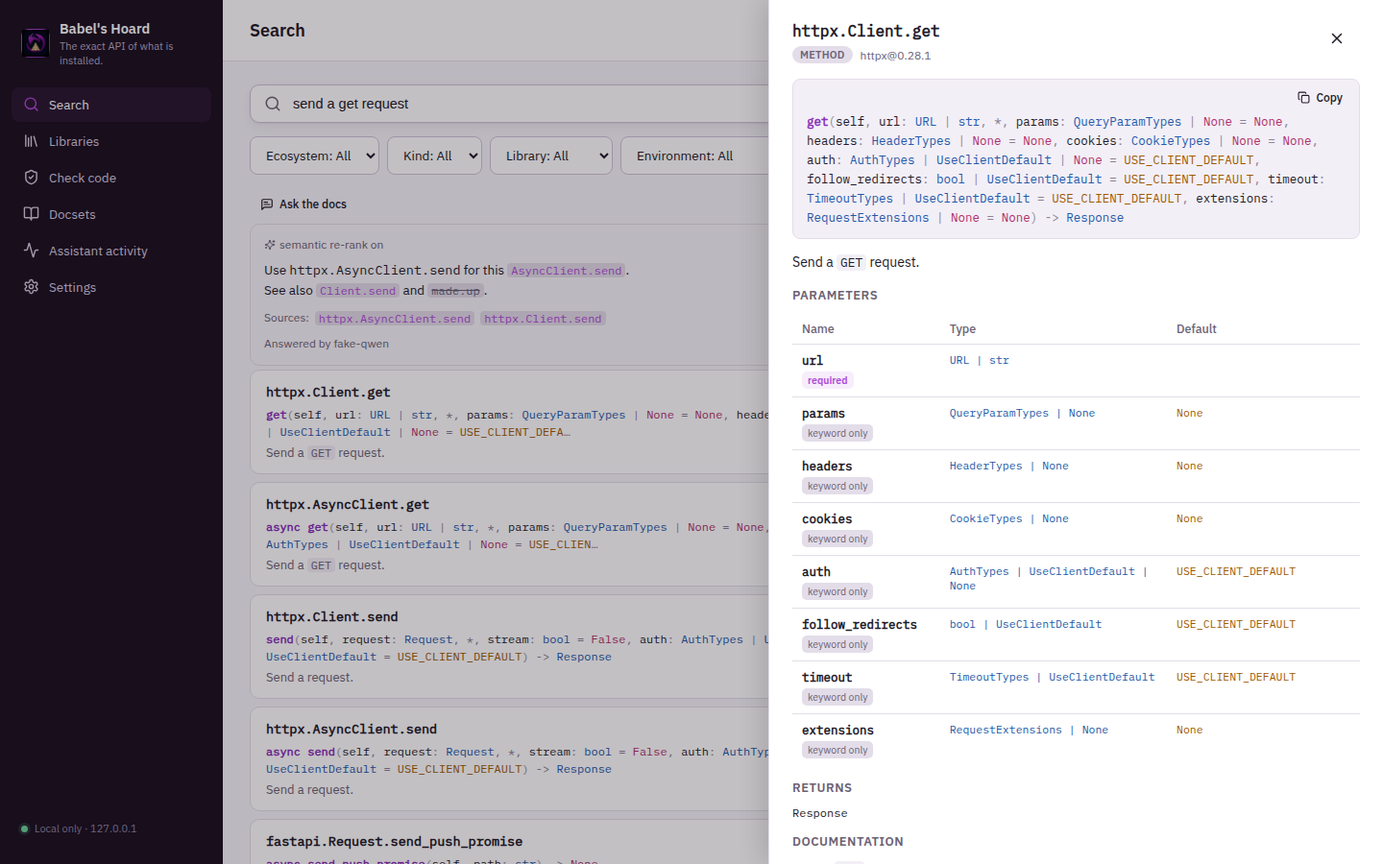
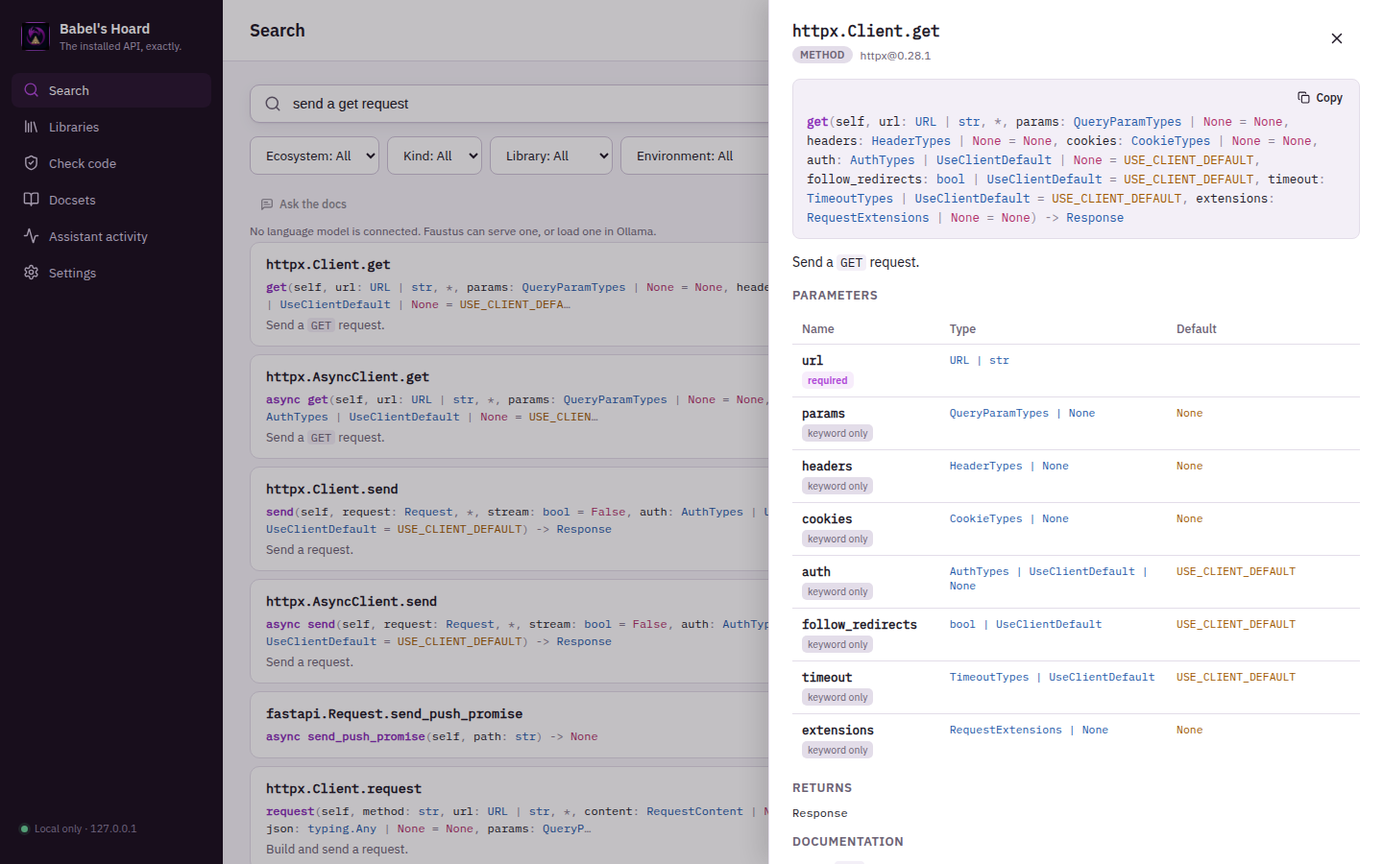
docs: add use cases to both READMEs and record the second usability pass
- README / README.es: a Use cases section linking to docs/USE_CASES.md,
  the feature table updated for this pass, 159 tests, and the new
  false-positive harness run.
- USABILITY_REPORT: second walk of every scenario (person in English and
  Spanish, agent over MCP), a verdict per use case and the status of every
  finding.
- Screenshots retaken from the demo data; the agent skill mentions
  default_for and no_python.

Claude-Session: https://claude.ai/code/session_019KVoFTp2agjwLaonbFXam5

diff --git a/README.es.md b/README.es.md
@@ -30,22 +30,50 @@ no puede demostrar se cuenta como `unchecked` (sin verificar).
 ![Comprobar código: response.jsonify() y client.post(..., retry=3) marcados contra httpx 0.28.1, con las líneas afectadas](docs/media/check-code.png)
 *Aplicación real, datos de demostración. El fragmento se analiza, nunca se ejecuta; `jsonify` se detecta gracias al tipo que devuelve `client.get` y a la variable de `with ... as client`.*
 
+## Casos de uso
+
+Cada uno se recorrió de verdad, en el navegador y por MCP, sobre un proyecto
+FastAPI + React con 228 paquetes instalados
+([casos de uso](docs/USE_CASES.md), [informe de usabilidad](docs/USABILITY_REPORT.md)):
+
+- **Registrar un proyecto grande**: pegas su carpeta y en menos de un
+  segundo se detectan el `.venv` y `frontend/node_modules`, se listan los
+  paquetes instalados con su versión exacta y las dependencias de ejecución
+  se indexan en segundo plano con el progreso a la vista (sin las
+  herramientas de desarrollo).
+- **Consultar una firma exacta**: escribes `sqlalchemy.ext.asyncio.async_sessionmaker`
+  en Buscar y pulsas *Consultar*: los parámetros del constructor del
+  SQLAlchemy instalado, aunque la primera pasada del índice se detuviera en
+  el límite de tamaño.
+- **Comprobar el código que ha escrito un modelo**: Python
+  (`httpx.AsyncClient(retries=3)`, un `item.dict()` obsoleto en tu propio
+  modelo de pydantic) e importaciones de TypeScript (`MagicWand` de
+  `lucide-react`), cada aviso bajo su línea.
+- **«Faustus, escríbelo y demuestra que existe»**: el agente consulta
+  `httpx.AsyncClient.stream`, comprueba su endpoint, corrige los dos errores
+  con las sugerencias y obtiene una comprobación limpia en cinco llamadas.
+- **Revisar un módulo entero**: un servicio correcto de 370 líneas no da
+  ningún aviso; tres errores introducidos vuelven como errores con su línea.
+- **Buscar en tu propia documentación**: indexas la carpeta `docs/` del
+  proyecto desde Docsets y encuentras «cómo arranco el backend» junto al
+  índice de APIs.
+
 ## Qué está implementado
 
 | Área | Disponible ahora | Límite |
 | --- | --- | --- |
-| Indexado de Python | Indexado estático (griffe sobre el código fuente y los stubs `.pyi`; el código del proyecto nunca se ejecuta) de las distribuciones y los módulos de la biblioteca estándar de cualquier intérprete registrado, cuando hace falta por primera vez y en caché por entorno + paquete + versión. En anchura, para que la API pública se indexe primero; cada objeto se expande una sola vez y sus otras rutas públicas apuntan a él; se resuelven clases base y reexportaciones de otros paquetes; se registra qué módulos y clases se conocen por completo (espacios de nombres dinámicos, límites, módulos compilados) | Límites por paquete: 15.000 entradas, 1.500 módulos analizados (sin las baterías de tests), 600 módulos de otros paquetes; una librería que los supera queda como `partial` y sus espacios de nombres incompletos nunca generan errores. Las extensiones compiladas sin stubs se registran como tales, sin miembros. No se indexan los módulos propios del proyecto que no estén instalados |
+| Indexado de Python | Indexado estático (griffe sobre el código fuente y los stubs `.pyi`; el código del proyecto nunca se ejecuta) de las distribuciones y los módulos de la biblioteca estándar de cualquier intérprete registrado, cuando hace falta por primera vez y en caché por entorno + paquete + versión. En anchura, para que la API pública se indexe primero; cada objeto se expande una sola vez y sus otras rutas públicas apuntan a él; se resuelven clases base y reexportaciones de otros paquetes; se registra qué módulos y clases se conocen por completo (espacios de nombres dinámicos, límites, módulos compilados, subpaquetes de espacio de nombres, nombres de stubs declarados solo con `@overload`); un espacio de nombres que el límite dejó sin expandir se indexa la primera vez que una consulta o comprobación llega a él; se indexan todos los nombres de importación de una distribución (pytest: `py` y `pytest`) | Límites por paquete en la primera pasada: 15.000 entradas, 1.500 módulos analizados (sin las baterías de tests), 600 módulos de otros paquetes; una librería que los supera queda como `partial` y sus espacios de nombres incompletos nunca generan errores. Las extensiones compiladas sin stubs se registran como tales, sin miembros. No se indexan los módulos propios del proyecto que no estén instalados |
 | Seguimiento de versiones | El sondeo del intérprete se reutiliza hasta que cambia su site-packages; tras una actualización, la siguiente consulta indexa la versión nueva y marca la anterior como `superseded` (solo se muestra como «otras versiones») | La detección se basa en la fecha de modificación de las carpetas de site-packages; las instalaciones editables que cambian el código sin reinstalar conservan lo indexado hasta reindexar |
-| Comprobación de código (`api_check_code`) | Módulos y atributos inexistentes, argumentos por nombre inesperados, parámetros solo posicionales pasados por nombre, demasiados posicionales, obligatorios que faltan y API obsoletas, con sugerencias. Sigue los valores a través de importaciones, asignaciones, anotaciones, tipos de retorno, métodos que devuelven `Self`, `with`/`async with` y `await`; distingue receptores (instancia, clase, estático, sin enlazar) y constructores; las sobrecargas se comprueban contra su contrato | Errores solo en espacios de nombres completos; las clases con `__getattr__` o `setattr(self, nombre)` y los módulos perezosos dan avisos; los tipos desconocidos, metaclases propias, `__new__`, decoradores desconocidos y el código protegido quedan sin verificar. TypeScript: solo importaciones y reexportaciones con nombre (v1) |
+| Comprobación de código (`api_check_code`) | Módulos y atributos inexistentes, argumentos por nombre inesperados, parámetros solo posicionales pasados por nombre, demasiados posicionales, obligatorios que faltan y API obsoletas, con sugerencias. Sigue los valores a través de importaciones, asignaciones, anotaciones, tipos de retorno, métodos que devuelven `Self`, `with`/`async with` (también funciones `@contextmanager` como `client.stream(...)`), `await` y clases definidas en el propio fragmento (a través de sus bases indexadas); distingue receptores (instancia, clase, estático, sin enlazar) y constructores; las sobrecargas se comprueban contra las que encajan con la llamada; `@deprecated` de PEP 702. Sin `env`, el código Python se comprueba contra el proyecto más reciente con intérprete y el TypeScript contra el más reciente con `node_modules` | Errores solo en espacios de nombres completos; las clases con `__getattr__` o `setattr(self, nombre)` y los módulos perezosos dan avisos; los tipos desconocidos, metaclases propias, `__new__`, decoradores desconocidos y el código protegido quedan sin verificar. TypeScript: solo importaciones y reexportaciones con nombre (v1) |
 | Consulta (`api_lookup`) | Firma, parámetros (tipo, valor por defecto, obligatorio, tipo de paso, descripción), tipo de retorno, resumen, los primeros 1.500 caracteres del docstring, miembros, archivo:línea y versión de la librería; `found: false` con los nombres reales más parecidos y si la ausencia es segura | Paquetes de Python y paquetes npm con declaraciones de tipos |
-| Indexado de JS/TS | API del compilador de TypeScript sobre las declaraciones del paquete (`types`/`typings`, `exports[...].types`, `index.d.ts`, `@types/<nombre>`): exportaciones, un nivel de miembros, JSDoc y `@deprecated`; se indexa al primer uso | Requiere Node.js; como máximo 500 exportaciones por paquete (después, `partial`) |
-| Búsqueda | FTS5 de SQLite con pesos bm25 (nombre, ruta, firma, resumen, documentación), tokens que entienden identificadores, filtros, un resultado por definición y sugerencias por trigramas | Léxica, sin embeddings |
+| Indexado de JS/TS | API del compilador de TypeScript sobre las declaraciones del paquete (`types`/`typings`, `exports[...].types`, `index.d.ts`, `@types/<nombre>`): exportaciones, un nivel de miembros, JSDoc y `@deprecated`; se indexa al primer uso | Requiere Node.js; tipos y documentación de las primeras 500 exportaciones de un paquete, solo nombres del resto (hasta 50.000) |
+| Búsqueda | FTS5 de SQLite con pesos bm25 (nombre, ruta, firma, resumen, documentación), tokens que entienden identificadores, filtros, un resultado por definición con su ruta más corta, reordenada para que las funciones y clases cuyo nombre coincide vayan antes que atributos y constantes, y sugerencias por trigramas; un nombre con puntos ofrece una consulta exacta que indexa el paquete en el momento | Léxica, sin embeddings; solo lo indexado |
 | Documentación sin conexión | Catálogo e instalación de DevDocs (HTML convertido a Markdown y dividido por anclas) como tarea en segundo plano | Necesita red, solo cuando lo pide el usuario o el modelo; el conversor es pequeño, no un renderizador HTML completo |
 | Carpetas de Markdown | `.md`/`.mdx`/`.rst`/`.txt` divididos por encabezado (respetando bloques de código y subrayados de rst) | Se omiten carpetas de dependencias, control de versiones y compilación; 2.000 archivos y 2 MB por archivo |
 | Auditoría del asistente | Cada llamada a `/api/agent/*` (herramienta, resumen de argumentos, duración, resultado) en «Actividad del asistente»; la interfaz usa sus propios endpoints, así que solo aparecen las llamadas del modelo | Solo local |
 | Preguntar a la documentación | Pantalla de Búsqueda: una pregunta se responde a partir de los mejores resultados de búsqueda con el modelo de `llm` compartido, con citas `[id]` que enlazan a la entrada exacta (y una lista de Fuentes; un id inventado por el modelo aparece tachado). Cuando el modelo de `embeddings` compartido resuelve, los 50 mejores resultados léxicos se reordenan de forma híbrida (fusión por rango recíproco del orden léxico y el de embeddings, distintivo «reordenación semántica activa»); si no, orden léxico | Solo responde con lo ya indexado; es una función de la interfaz, no una herramienta MCP; se desactiva mostrando el motivo cuando ningún modelo resuelve |
 | Backend de modelos compartido | Ajustes → Modelos: qué servidor/modelo se usa ahora mismo para `llm`/`embeddings` y por qué, un botón «Comprobar de nuevo», ajustes manuales (URL/token de Faustus, URL/modelo por capacidad) | Ver [Modelos compartidos](#modelos-compartidos) más abajo |
-| Interfaz | Búsqueda, panel de símbolo, Librerías (paquetes instalados con su estado de indexado), Comprobar código (números de línea, avisos bajo cada línea), Docsets, Actividad del asistente y Ajustes; tema claro/oscuro, inglés/español | Un solo usuario, navegador local |
+| Interfaz | Búsqueda, panel de símbolo, Librerías (paquetes instalados con su estado de indexado, que se rellena mientras corre la tarea de dependencias; entorno predeterminado por lenguaje), Comprobar código (números de línea, avisos bajo cada línea), Docsets (con *Indexar una carpeta*), Actividad del asistente (qué entorno respondió a cada llamada) y Ajustes; tema claro/oscuro, inglés/español | Un solo usuario, navegador local; los mensajes del backend (avisos, notas) están en inglés |
 
 ## Modelos compartidos
 
@@ -144,7 +172,7 @@ las decisiones detrás del comprobador:
 .venv\Scripts\python -m pytest -q
 ```
 
-**126 tests, entre 50 y 85 s en un contenedor compartido de 2 CPU, sin red.** Cubren: la
+**159 tests, entre 60 y 135 s en un contenedor compartido de 2 CPU, sin red.** Cubren: la
 protección frente al navegador y el confinamiento de archivos estáticos
 (intentos de salir de la carpeta), la forma de los errores, las conexiones
 por hilo y que `/api/health` responda mientras corre una herramienta larga;
@@ -165,7 +193,15 @@ valores no válidos rechazados antes de guardarse, un `backend.json` roto al
 arrancar, y «Preguntar a la
 documentación» - desactivada, pregunta vacía, sin resultados, filtrado de
 citas, reordenación híbrida y una llamada al modelo fallida - todo contra
-un Link simulado, sin red).
+un Link simulado, sin red); y un test de regresión por cada hallazgo
+corregido del [informe de usabilidad](docs/USABILITY_REPORT.md)
+(`tests/test_usability_fixes.py`: entornos predeterminados por lenguaje,
+distribuciones con varios paquetes, submódulos compilados y subpaquetes de
+espacio de nombres, stubs solo con sobrecargas, expansión bajo demanda más
+allá del límite, valores de gestores de contexto, clases del propio
+fragmento, sobrecargas que encajan, orden de la búsqueda, listas grandes de
+exportaciones JS y que ningún paquete analizado se quede en memoria tras
+indexarlo).
 
 Banco de falsos positivos: `scripts/check_corpus.py` pasa el comprobador
 por el código de paquetes instalados, que funciona, así que cualquier error
@@ -173,8 +209,12 @@ que marque es sospechoso. En 300 archivos tomados de starlette, fastapi,
 httpx, uvicorn, mcp, anyio, pydantic-settings, click, jsonschema, griffe,
 pandas y requests no marca ningún error ni aviso (en la muestra de
 pandas/requests: 4.954 comprobaciones verificadas y 11.551 sin verificar).
-Las cuatro clases de falsos positivos que encontró están corregidas y
-cubiertas por tests.
+En 110 archivos de SQLAlchemy, pydantic-settings, sse-starlette, tenacity,
+fastembed, psutil, chromadb, aiosqlite, alembic, PyJWT, pytest, attrs y
+numpy (2.880 comprobaciones verificadas) marca 3 errores, todos reales: el
+código del modo distribuido de chromadb importa módulos `*_pb2` que su
+wheel no incluye. Las siete clases de falsos positivos que encontró están
+corregidas y cubiertas por tests.
 
 `npm run build` en `frontend/` termina sin errores de TypeScript. El primer
 arranque de `scripts/start.ps1` (venv, instalación del bloqueo, compilación

diff --git a/README.md b/README.md
@@ -30,22 +30,46 @@ counted as `unchecked`.
 ![Check code: response.jsonify() and client.post(..., retry=3) flagged against httpx 0.28.1, with the offending lines](docs/media/check-code.png)
 *Actual application, demo data. The snippet is parsed, never executed; `jsonify` is caught through the return type of `client.get` and the `with ... as client` binding.*
 
+## Use cases
+
+Each one was walked for real, in the browser and over MCP, on a FastAPI +
+React project with 228 installed packages
+([use cases](docs/USE_CASES.md), [usability report](docs/USABILITY_REPORT.md)):
+
+- **Register a big project** - paste its folder: the `.venv` and
+  `frontend/node_modules` are detected in under a second, the installed
+  packages are listed with exact versions, and runtime dependencies are
+  indexed in the background with visible progress (dev tools skipped).
+- **Look up an exact signature** - type `sqlalchemy.ext.asyncio.async_sessionmaker`
+  on Search and press *Look up*: the constructor parameters of the installed
+  SQLAlchemy, even though its first index pass stopped at the size cap.
+- **Check a snippet a model wrote** - Python (`httpx.AsyncClient(retries=3)`,
+  a deprecated `item.dict()` on your own pydantic model) and TypeScript
+  imports (`MagicWand` from `lucide-react`), each under its line.
+- **"Faustus, write it and prove it exists"** - the agent looks up
+  `httpx.AsyncClient.stream`, checks its endpoint, fixes the two errors from
+  the suggestions and gets a clean check in five calls.
+- **Review a whole module** - a correct 370-line service gives zero
+  findings; three introduced mistakes come back as errors with their lines.
+- **Search your own docs** - index the project's `docs/` folder from
+  Docsets and find "how do I start the backend" next to the API index.
+
 ## What is implemented
 
 | Area | Available now | Boundary |
 | --- | --- | --- |
-| Python indexing | Static indexing (griffe over source and `.pyi` stubs, project code never runs) of any registered interpreter's distributions and stdlib modules, on first need and cached per environment + package + version. Breadth-first, so the public API is indexed first; every object expanded once with its other public paths linked to it; bases and re-exports from other packages resolved; completeness recorded per module/class (dynamic namespaces, caps, compiled modules) | Caps per package: 15,000 entries, 1,500 parsed modules (test suites skipped), 600 modules from other packages; libraries over a cap are marked `partial` and their incomplete namespaces never produce errors. Compiled extensions without stubs are recorded as such, with no members. The project's own (not installed) modules are not indexed |
+| Python indexing | Static indexing (griffe over source and `.pyi` stubs, project code never runs) of any registered interpreter's distributions and stdlib modules, on first need and cached per environment + package + version. Breadth-first, so the public API is indexed first; every object expanded once with its other public paths linked to it; bases and re-exports from other packages resolved; completeness recorded per module/class (dynamic namespaces, caps, compiled modules, namespace sub-packages, stub names declared only with `@overload`); a namespace the cap left unexpanded is indexed the first time a lookup or check reaches it; every import name of a distribution indexed (pytest: `py` and `pytest`) | Caps per package for the first pass: 15,000 entries, 1,500 parsed modules (test suites skipped), 600 modules from other packages; libraries over a cap are marked `partial` and their incomplete namespaces never produce errors. Compiled extensions without stubs are recorded as such, with no members. The project's own (not installed) modules are not indexed |
 | Version tracking | The interpreter probe is cached until its site-packages changes; after an upgrade the next lookup indexes the new version and marks the old index `superseded` (kept only as "other versions") | Detection relies on site-packages folder timestamps; editable installs that change code in place keep the indexed version until re-indexed |
-| Code check (`api_check_code`) | Unknown modules/attributes, unexpected keywords, positional-only passed by keyword, too many positional, missing required, deprecated, with suggestions. Follows values through imports, assignments, annotations, return annotations, `Self`-returning methods, `with`/`async with` and `await`; receivers (instance/class/static/unbound) and constructors handled; overloads checked against their contract | Errors only for statically complete namespaces; `__getattr__`/`setattr(self, name)` classes and lazy modules produce warnings; unknown types, custom metaclasses, `__new__`, unknown decorators and guarded code are `unchecked`. TypeScript: named imports/re-exports only (v1) |
+| Code check (`api_check_code`) | Unknown modules/attributes, unexpected keywords, positional-only passed by keyword, too many positional, missing required, deprecated, with suggestions. Follows values through imports, assignments, annotations, return annotations, `Self`-returning methods, `with`/`async with` (including `@contextmanager` functions such as `client.stream(...)`), `await` and classes defined in the snippet (through their indexed bases); receivers (instance/class/static/unbound) and constructors handled; overloads checked against the ones that fit the call; PEP 702 `@deprecated`. Without `env`, Python code is checked against the newest project with an interpreter and TypeScript against the newest with `node_modules` | Errors only for statically complete namespaces; `__getattr__`/`setattr(self, name)` classes and lazy modules produce warnings; unknown types, custom metaclasses, `__new__`, unknown decorators and guarded code are `unchecked`. TypeScript: named imports/re-exports only (v1) |
 | Lookup (`api_lookup`) | Signature, parameters (type, default, required, kind, description), return type, summary, first 1,500 characters of the docstring, members, source file:line, library version; `found: false` with real neighbouring names and whether absence is certain | Python and npm packages with type declarations |
-| JS/TS indexing | TypeScript compiler API over a package's declarations (`types`/`typings`, `exports[...].types`, `index.d.ts`, `@types/<name>`): exports, one level of members, JSDoc, `@deprecated`; indexed on first use | Needs Node.js; at most 500 exports per package (then `partial`) |
-| Search | SQLite FTS5 with bm25 weights (name, qualname, signature, summary, doc), identifier-aware tokens, filters, one hit per definition, trigram "did you mean" | Lexical, no embeddings |
+| JS/TS indexing | TypeScript compiler API over a package's declarations (`types`/`typings`, `exports[...].types`, `index.d.ts`, `@types/<name>`): exports, one level of members, JSDoc, `@deprecated`; indexed on first use | Needs Node.js; types and docs for the first 500 exports of a package, names only for the rest (up to 50,000) |
+| Search | SQLite FTS5 with bm25 weights (name, qualname, signature, summary, doc), identifier-aware tokens, filters, one hit per definition under its shortest path, re-ranked so callables and classes whose name matches come before attributes and constants, trigram "did you mean"; a dotted name offers an exact lookup that indexes the package on the spot | Lexical, no embeddings; only what is indexed |
 | Offline docsets | DevDocs catalogue and install (HTML converted to Markdown, split by anchors) as a background job | Needs the network, only when the user or the model asks; converter is small, not a full HTML renderer |
 | Markdown folders | `.md`/`.mdx`/`.rst`/`.txt` split by heading (fenced code aware, rst underlines) | Dependency/VCS/build folders skipped; 2,000 files, 2 MB per file |
 | Assistant audit | Every `/api/agent/*` call (tool, argument summary, duration, result) in "Assistant activity"; the UI uses its own endpoints so only the model's calls appear | Local only |
 | Ask the docs | Search screen: a question is answered from the top search hits by the shared `llm` model, with citations `[id]` that link back to the exact entry (and a Sources list; an id the model invented is shown struck through). When the shared `embeddings` model resolves, the top 50 lexical hits are re-ranked hybrid (reciprocal-rank fusion of the lexical and embedding orders, "semantic re-rank on" badge); otherwise lexical order | Answers only from what is already indexed; a UI feature, not an MCP tool; disabled with the reason shown when no model resolves |
 | Shared model backend | Settings -> Models: which server/model is used for `llm`/`embeddings` right now and why, a Re-check button, manual overrides (Faustus URL/token, per-capability URL/model) | Read [Shared models](#shared-models) below |
-| UI | Search, symbol panel, Libraries (installed packages with index status), Check code (line numbers, findings under each line), Docsets, Assistant activity, Settings; light/dark, English/Spanish | Single user, local browser |
+| UI | Search, symbol panel, Libraries (installed packages with index status, filling in while the dependency job runs; default environment per language), Check code (line numbers, findings under each line), Docsets (with *Index a folder*), Assistant activity (which environment answered each call), Settings; light/dark, English/Spanish | Single user, local browser; backend messages (findings, notes) are in English |
 
 ## Shared models
 
@@ -139,7 +163,7 @@ Modules, data model and the decisions behind the checker:
 .venv\Scripts\python -m pytest -q
 ```
 
-**126 tests, 50-85 s in a shared 2-CPU container, offline.** They cover: the
+**159 tests, 60-135 s in a shared 2-CPU container, offline.** They cover: the
 browser guard and static-file confinement (path traversal attempts), error
 shapes, per-thread connections and a health check that answers while a
 long tool runs; indexing of real installed packages (httpx, pydantic,
@@ -156,14 +180,24 @@ and the shared model backend (`/api/backend*`, config persistence that never
 leaks the Faustus token, cleared fields, invalid values rejected before
 they are saved, a broken `backend.json` at startup, and "Ask the docs" - disabled path, empty query,
 no matching entries, citation filtering, hybrid re-rank, and a failed model
-call - all against a fake Link, offline).
+call - all against a fake Link, offline); and one regression test per fixed
+finding of the [usability report](docs/USABILITY_REPORT.md)
+(`tests/test_usability_fixes.py`: per-language default environments,
+multi-package distributions, compiled submodules and namespace packages,
+overload-only stubs, on-demand expansion past the cap, context-manager
+values, snippet classes, fitting overloads, search ranking, large JS export
+lists, and that no parsed package stays in memory after indexing).
 
 False-positive harness: `scripts/check_corpus.py` runs the checker over
 the source of installed packages, which works, so any error it reports is
 suspect. On 300 files sampled from starlette, fastapi, httpx, uvicorn, mcp,
 anyio, pydantic-settings, click, jsonschema, griffe, pandas and requests it
 reports no errors and no warnings (the pandas/requests sample: 4,954
-verified checks, 11,551 left unchecked). Four false-positive classes it
+verified checks, 11,551 left unchecked). On 110 files from SQLAlchemy,
+pydantic-settings, sse-starlette, tenacity, fastembed, psutil, chromadb,
+aiosqlite, alembic, PyJWT, pytest, attrs and numpy (2,880 verified checks)
+it reports 3 errors, all genuine: chromadb's distributed-mode code imports
+`*_pb2` modules its wheel does not ship. Seven false-positive classes it
 found are fixed and covered by tests.
 
 `npm run build` in `frontend/` passes with zero TypeScript errors. The

diff --git a/docs/USABILITY_REPORT.md b/docs/USABILITY_REPORT.md
@@ -4,9 +4,10 @@ First real use of Babel's Hoard, walking every scenario in
 [USE_CASES.md](USE_CASES.md) twice: as a person in the browser (Playwright,
 screenshots read one by one, English at 1280x800 and Spanish at 1920x1080)
 and as an agent over the real MCP stdio protocol
-([`scripts/agent_walkthrough.py`](../scripts/agent_walkthrough.py)). This
-pass records findings only; fixes come in the next pass, and each one will
-be marked here when it lands.
+([`scripts/agent_walkthrough.py`](../scripts/agent_walkthrough.py)). The
+first pass recorded the findings below; the fixes and a second walk of every
+scenario (same data, same scripts, a fresh data folder) are in
+[Second pass](#second-pass-after-the-fixes) at the end.
 
 ## Test setup
 
@@ -301,3 +302,67 @@ package exports, say which.
 - Docset download/install (network) and dark mode screenshots.
 - Faustus itself: the listing truncation was simulated by the walkthrough
   script (first line, 120 characters), not observed in Faustus.
+
+## Second pass (after the fixes)
+
+Same project and scripts, fresh data folder, in English at 1280x800 and in
+Spanish at 1920x1080 (screenshots read one by one), and the agent script
+over MCP stdio. Every regression is pinned by a test in
+[`tests/test_usability_fixes.py`](../tests/test_usability_fixes.py).
+
+| Scenario | Person | Agent | Verdict |
+| --- | --- | --- | --- |
+| UC1 register the big project | 0.35-0.46 s; the root finds `frontend/node_modules` and is tagged *default · Python* and *default · TypeScript*; 228 packages in 0.3 s; the 46-dependency job (dev tools listed as skipped) fills "Indexed here" while it runs; search answers in 0.1-0.2 s meanwhile | - | works |
+| UC2 look up `async_sessionmaker` | Typing the dotted name offers *Look up*; the panel shows the constructor of SQLAlchemy 2.0.54 (34-40 s the first time: SQLAlchemy indexed plus the capped namespace expanded while the dependency job was running; instant afterwards); "async sessionmaker" then ranks the class first | - | works (slow first time) |
+| UC3 check a model-written snippet | 2 of 4 caught: `retries=3` (error) and `item.dict()` (deprecated, with the `model_dump` hint); `psutil.gpu_percent()` stays unverifiable (A4), `class Config: orm_mode` is out of reach | - | works with caveat |
+| UC4 write + prove an httpx endpoint | - | 5 calls; the hallucinated `aiter_text_lines` is now caught through `client.stream(...) as response`; both errors fixed from the suggestions; final check clean | works |
+| UC5 review the 370-line module | - | 0 findings on the correct module (177 verified, 143 unverifiable); the 3 introduced mistakes reported with lines, `connect_timeout` now suggests `connect`; lxml / numpy `Generator.normal` / chromadb namespace imports clean; `@pytest.fixtur` and `pytest.raises(..., matchh=)` both reported | works |
+| UC6 learn fastembed, write, check | - | `docs_search("query embedding")` puts `fastembed.TextEmbedding.query_embed` first; the written file checks clean | works |
+| UC7 check React imports | The root registration alone is enough; `useFormStatus` and `MagicWand` flagged; registering `frontend` separately keeps Python on the root; choosing the frontend-only environment for Python shows why and disables Check | Python check against it: `no_python` naming the right ids; without env the Python default is unchanged | works |
+| UC8 search my own docs | Docsets -> *Index a folder*: 7 sections from 2 files; "how do I start the backend" finds `SETUP.md#Start the backend` and opens it | Same, via `docs_index_folder` + `docs_search` + `docs_read` | works |
+
+Agent totals: 28 calls, 30,616 characters of results (~7.7k tokens), largest
+`docs_libraries` at 4,667 characters (was 7,855); no image blocks; the
+walkthrough reported no problems. No console errors in either browser run.
+The app process stayed at 200-250 MB during and after the dependency job
+(1.4-1.6 GB before the fix).
+
+### Status of each finding
+
+| Finding | Status |
+| --- | --- |
+| B1 frontend-only env becomes the default | **Fixed.** Frontend `node_modules` detected one level down; defaults per language; re-registering makes the project the default again and keeps its id; a Python check against a `node_modules`-only env is a `no_python` error listing the Python envs; the Check screen picks the env per language, explains a mismatch and disables Check |
+| B2 capped namespaces missing (`sqlalchemy.ext.asyncio`) | **Fixed.** Namespaces the cap left unexpanded are indexed on the first lookup or check that reaches them and merged into the same library |
+| B3 pytest "not installed" | **Fixed.** One library per import name of a distribution; siblings are not superseded; the UI's *Index* button indexes every import name and the Libraries list says which is which. Also fixed on the way: stubs that re-export another package (`attrs` -> `attr`) failed to index at all |
+| B4 first description line | **Fixed** as proposed; tested (at most 110 characters, a whole statement, Spanish trigger words) |
+| B5 compiled submodules / namespace packages | **Fixed**; recorded as unverifiable modules |
+| B6 overload-only stub methods | **Fixed**; indexed with their overload contract |
+| A1 eager job cost and memory | **Fixed**: dev groups/files and tools skipped (still indexed on demand); the memory growth was a leak (griffe's dataclass cache and our docstring cache kept every parsed package alive), now cleared after each library. Not done: letting on-demand indexing jump ahead of the job (it waits for at most the library being indexed) |
+| A2 `async with client.stream(...)` | **Fixed** (`@(async)contextmanager` yields) |
+| A3 pydantic v1 idioms | **Partly fixed**: snippet classes follow their bases and PEP 702 `@deprecated` is read, so `item.dict()` is reported; `class Config: orm_mode` is not |
+| A4 `psutil.gpu_percent()` | **Not fixed.** psutil also extends `__all__` from a platform module chosen at import time; proving absence there needs more than a prefix rule, so it stays unverifiable rather than risk false errors |
+| A5 Libraries not refreshing during the job | **Fixed** |
+| A6 no UI to index a Markdown folder | **Fixed** (*Index a folder* on Docsets) |
+| A7 `unknown_environment` without next step | **Fixed** (says to register with `docs_add_environment` and lists known ids) |
+| A8 large default results | **Fixed**: `docs_libraries` pages 15 by default (the per-library notes were already not in the agent listing) |
+| A9 search ranks constants first | **Fixed** (kind, name match, depth and legacy-path re-ranking; exact identifiers always considered); also fixed: an older, slower search answer could replace the current one in the UI |
+| A10 capped JS export lists | **Fixed** (names past 500 exports indexed without types) |
+| A11 weak suggestions | **Fixed** for compound keywords (`connect_timeout` -> `connect`) and for a JS name exported by another *indexed* package; `useFormStatus` still suggests `useState` until `react-dom` has been indexed |
+| C1 "1 errors" | **Fixed** |
+| C2 English strings in the Spanish UI | **Partly fixed**: kind badges and filters translated, `<html lang>` follows the UI; finding messages, job progress and library notes come from the backend in English |
+| C3 tagline wraps | **Fixed** (shorter tagline, one line at both widths) |
+| C4 activity without the environment | **Fixed** (each call's summary names the environment that answered) |
+
+New in the second pass, found by the false-positive harness on `_pytest`:
+`logging.LogRecord.message` (assigned by `Formatter.format` on the record,
+declared by no class) was an error; attributes a module assigns on other
+objects are now recorded on its classes. The harness over 110 files of the
+large dependency stack (SQLAlchemy, pydantic-settings, sse-starlette, tenacity,
+fastembed, psutil, chromadb, aiosqlite, alembic, PyJWT, pytest, attrs,
+numpy) now reports 3 errors, all genuine (`chromadb.proto.*_pb2` modules its
+wheel does not ship).
+
+Still not tested: the Windows launchers and paths, "Ask the docs" with a
+real model, docset downloads, dark mode, and Faustus's own tool listing
+(simulated by the walkthrough).
+

diff --git a/skills/version-exact-apis/SKILL.md b/skills/version-exact-apis/SKILL.md
@@ -19,7 +19,8 @@ Your memory of a library mixes versions. The project's `.venv` /
 
 ## Order
 
-1. `docs_libraries()` shows environments (one is `default`) and what is
+1. `docs_libraries()` shows environments (`default_for` says which one
+   answers Python and which TypeScript when you omit `env`) and what is
    indexed. Unlisted installed packages are indexed on first use.
 2. `api_lookup("pkg.Class.method", env=...)`. Use `params[].required` and
    `kind` (keyword-only!) exactly as returned. On `found: false`, use one of
@@ -35,6 +36,8 @@ Your memory of a library mixes versions. The project's `.venv` /
 - `ok: true` with a large `unchecked` count means "not verified", not
   "correct": values of unknown type and dynamic code are skipped on purpose.
 - Guarded code (`try/except ImportError`, `hasattr(...)`) is not checked.
+- `no_python` means the env you passed has only `node_modules`: use the
+  Python env id the message lists, or omit `env`.
 - The first lookup of a big package can take several seconds - wait, do not
   retry in a loop. `babel_timeout` once: retry once.
 - Docset and markdown hits have `kind: "section"`: read them with
